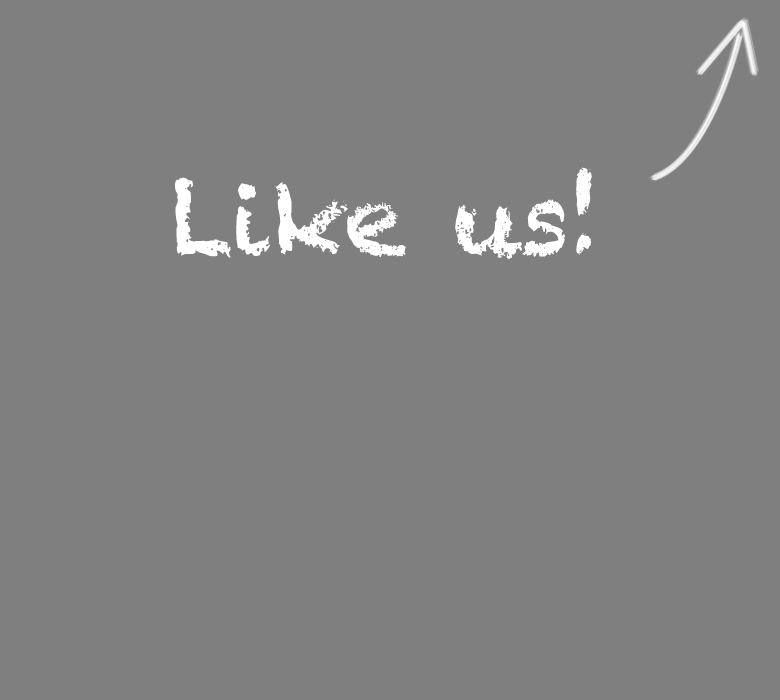
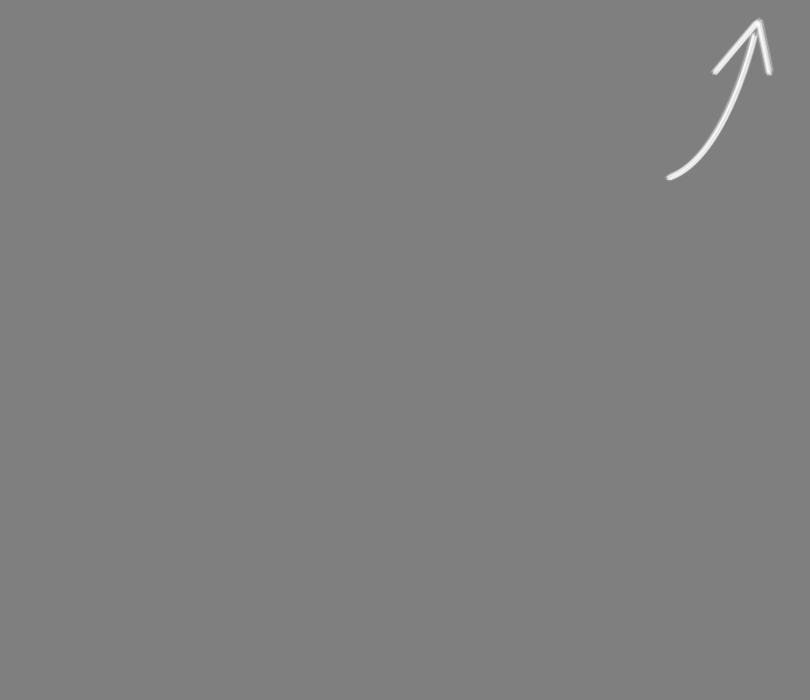
Fixing like gate

Changed region(s): [[0.2154, 0.24, 0.5231, 0.39], [0.8308, 0.03, 0.9846, 0.27], [0.5846, 0.24, 0.7692, 0.39]]

diff --git a/app/assets/stylesheets/social/social_application.css.scss b/app/assets/stylesheets/social/social_application.css.scss
@@ -34,8 +34,8 @@ body#social {
 
 #wrapper {
   margin: auto;
-  xmin-width: 520px;
-  xmax-width: 760px;
+  min-width: 810px;
+  max-width: 810px;
 }
 
 #footer {
@@ -76,6 +76,15 @@ body#social {
     top: 0;
     left: 0;
     z-index: 10000;
+    
+    p {
+      margin-top: 100px;
+      z-index: 10001;
+      color: white;
+      font-size: 110px;
+      font-weight: bold;
+      text-align: center;
+    }
   }
   
   .like-button-wrapper, .follow-button-wrapper {
@@ -177,9 +186,7 @@ body#social {
       img {
         position: absolute;
         left: 400px;
-        bottom: 110px;
-        xdisplay: block;
-        xmargin: 50px auto;
+        bottom: 0px;
       }
 
     }
@@ -195,10 +202,10 @@ body#social {
       div.gradient {
         background-image: -webkit-gradient(radial, 50% 50%, 40, 50% 50%, 180, from(rgba(143, 181, 200, .8)), to(rgba(143, 181, 200, 0)));
         position: absolute;
-        left: -250px;
+        left: -50px;
         top: -200px;
         height: 617px;
-        width: 750px;
+        width: 370px;
         z-index: -1;
       }
 

diff --git a/config/initializers/social_campaign.rb b/config/initializers/social_campaign.rb
@@ -4,17 +4,17 @@ facebook_config = YAML.load(File.read(path))[Rails.env]
 Social::Campaign.create! \
   :uuid                    => "f7daf30c-8bc0-42a5-8125-f31665d755a4",
   :client_name             => "Luleka",
-  :name                    => 'Luleka Sweepstakes',
+  :name                    => 'Pre-registration Sweepstakes',
   :recomendation_image_url => "http://placekitten.com/g/50/50",
-  :recommendation_body     => "Enter our sweepstakes and you could win cool stuff!",
-  :recommendation_title    => "Enter our sweepstakes",
+  :recommendation_body     => "Enter our sweepstakes and you could win the new iPad or the new Apple TV!",
+  :recommendation_title    => "Enter to win the new iPad or Apple TV!",
   :require_unique_email    => true,
   :require_unique_uid      => true,
   :permissions             => "user_likes",
-  # :start_date              => 1.second.ago,
-  # :end_date                => 90.days.from_now,
-  :start_date              => 1.day.from_now,
+  :start_date              => 1.second.ago,
   :end_date                => 90.days.from_now,
+  # :start_date              => 100.days.from_now,
+  # :end_date                => 190.days.from_now,
   :api_key                 => facebook_config["api_key"],
   :secret_key              => facebook_config["secret_key"],
   :page_id                 => facebook_config["page_id"]
